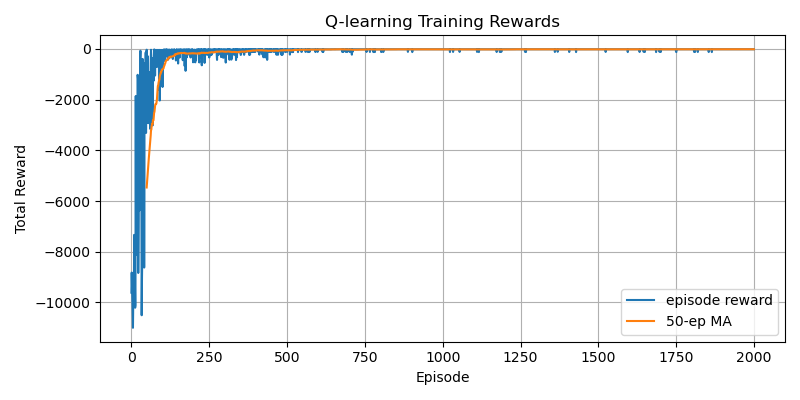
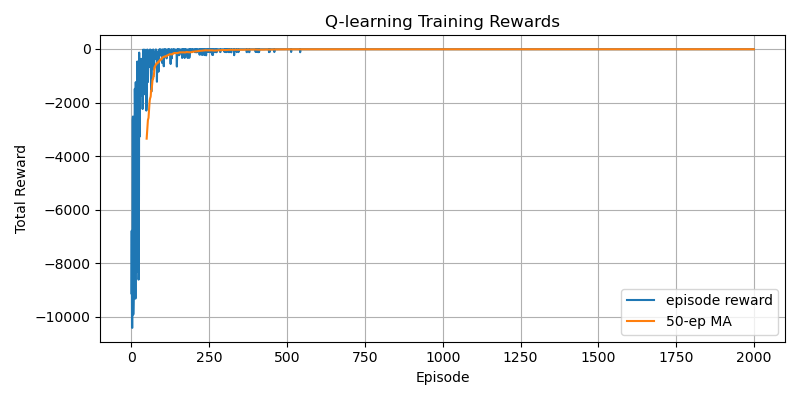
fix.参数调整

diff --git a/2/q_learning_cliffwalking.py b/2/q_learning_cliffwalking.py
@@ -68,8 +68,8 @@ def q_learning(env, num_episodes=500, alpha=0.2, gamma=0.99,
     return Q, rewards_all_episodes
 
 
-def sarsa(env, num_episodes=500, alpha=0.5, gamma=0.99,
-          epsilon=1.0, epsilon_decay=0.995, min_epsilon=0.01,
+def sarsa(env, num_episodes=500, alpha=0.18, gamma=0.99,
+          epsilon=1.0, epsilon_decay=0.9985, min_epsilon=0.0001,
           max_steps_per_episode=1000):
     """On-policy SARSA implementation. Returns Q and rewards list."""
     n_states = env.observation_space.n
@@ -361,11 +361,11 @@ def main():
 
     # training hyperparameters
     num_episodes = 2000
-    alpha = 0.7
+    alpha = 0.23
     gamma = 0.99
     epsilon = 1.0
-    epsilon_decay = 0.995
-    min_epsilon = 0.01
+    epsilon_decay = 0.99
+    min_epsilon = 0.0001
 
     # Run Q-learning
     print("Starting Q-learning...")
@@ -391,8 +391,8 @@ def main():
 
     # print policies
     try:
-        if hasattr(env, 'shape'):
-            n_rows, n_cols = env.shape
+        if hasattr(env.unwrapped, 'shape'):
+            n_rows, n_cols = env.unwrapped.shape
         else:
             n_rows, n_cols = 4, 12
     except Exception:
